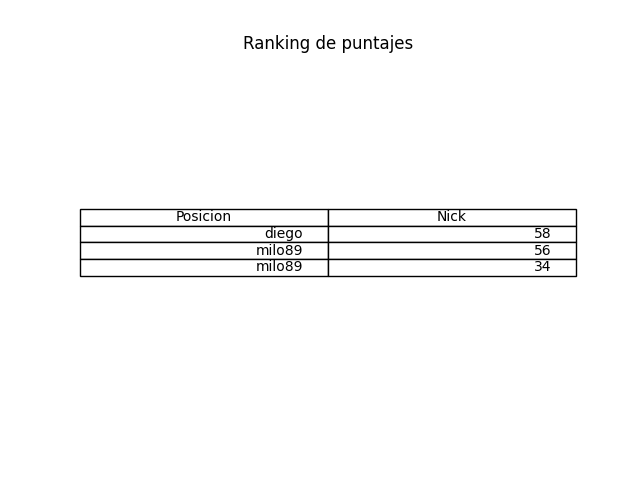
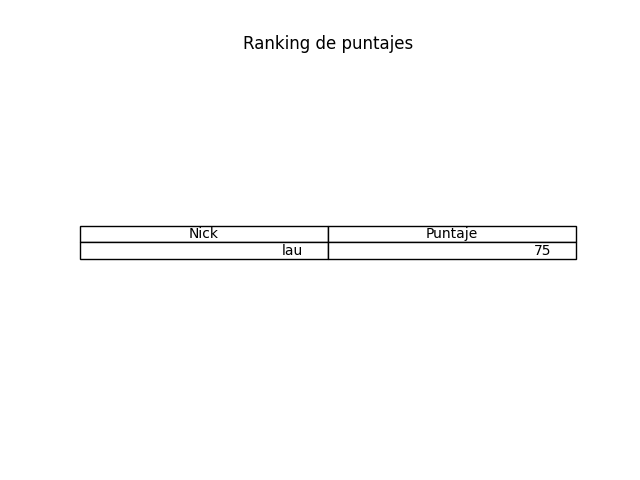
Arreglo de ranking

Changed region(s): [[0.125, 0.4688, 0.9062, 0.5938], [0.125, 0.4062, 0.9062, 0.5]]

diff --git a/trabajo/src/handlers/ranking_f.py b/trabajo/src/handlers/ranking_f.py
@@ -1,0 +1,56 @@
+import PySimpleGUI as sg
+import pandas as pd
+import matplotlib.pyplot as plt
+from src.handlers import sonido
+
+
+def obtener_datos():
+    datos_puntos= pd.read_csv('datos_de_puntos.csv')
+    facil= datos_puntos[datos_puntos['nivel']=='Facil']
+    filtro = facil[['nick', 'puntos']]
+    filtro = filtro.groupby('nick')[['nick', 'puntos']].sum()
+    ranking_f = filtro.sort_values(by='puntos', ascending=False).reset_index()[:5]
+    return ranking_f.values
+
+
+
+def start():
+    """ Lanza la ejecución de la ventana del tablero """
+    window = loop()
+    window.close()
+
+
+def build():
+    """ Crea la ventana para registrar el usuario"""
+    size = (15, 2)
+
+    layout = [
+        [sg.Image(filename="src/recursos/graficos/ranking.png")],
+        [sg.Button("Salir", size=size, key="-SALIR-")]
+    ]
+
+    ranking = sg.Window("Grafico", layout=layout, element_justification='c', resizable=False, modal=True)
+
+    return ranking
+
+
+def loop():
+    """Loop de la ventana del tablero que capta sus eventos"""
+    window = build()
+
+    fig, ax = plt.subplots(1, 1)
+    data = obtener_datos()
+    column_labels = ['Nick', 'Puntaje']
+    ax.axis('tight')
+    ax.axis('off')
+    ax.table(cellText=data, colLabels=column_labels, loc="center")
+    plt.title("Ranking de puntajes")
+    plt.savefig("src/recursos/graficos/ranking.png")
+
+    while True:
+        event, values = window.read()
+        if event in (sg.WINDOW_CLOSED, "-SALIR-"):
+            sonido.reproducir_sonido(1)
+            break
+
+    return window

diff --git a/trabajo/src/handlers/ranking_m.py b/trabajo/src/handlers/ranking_m.py
@@ -1,0 +1,53 @@
+import PySimpleGUI as sg
+import pandas as pd
+import matplotlib.pyplot as plt
+from src.handlers import sonido
+
+def obtener_datos():
+    datos_puntos= pd.read_csv('datos_de_puntos.csv')
+    medio= datos_puntos[datos_puntos['nivel']=='Medio']
+    filtro = medio[['nick', 'puntos']]
+    filtro = filtro.groupby('nick')[['nick', 'puntos']].sum()
+    ranking_m = filtro.sort_values(by='puntos', ascending=False).reset_index()[:5]
+    return ranking_m.values
+
+def start():
+    """ Lanza la ejecución de la ventana del tablero """
+    window = loop()
+    window.close()
+
+
+def build():
+    """ Crea la ventana para registrar el usuario"""
+    size = (15, 2)
+
+    layout = [
+        [sg.Image(filename="src/recursos/graficos/ranking.png")],
+        [sg.Button("Salir", size=size, key="-SALIR-")]
+    ]
+
+    ranking = sg.Window("Grafico", layout=layout, element_justification='c', resizable=False, modal=True)
+
+    return ranking
+
+
+def loop():
+    """Loop de la ventana del tablero que capta sus eventos"""
+    window = build()
+
+    fig, ax = plt.subplots(1, 1)
+    data = obtener_datos()
+    column_labels = ['Nick', 'Puntaje']
+    ax.axis('tight')
+    ax.axis('off')
+    ax.table(cellText=data, colLabels=column_labels, loc="center")
+    plt.title("Ranking de puntajes")
+    plt.savefig("src/recursos/graficos/ranking.png")
+
+    while True:
+        event, values = window.read()
+        if event in (sg.WINDOW_CLOSED, "-SALIR-"):
+            sonido.reproducir_sonido(1)
+            break
+
+    return window

diff --git a/trabajo/src/handlers/intento.py b/trabajo/src/handlers/intento.py
@@ -1,3 +1,4 @@
+from os import X_OK
 import PySimpleGUI as sg
 import pandas as pd
 import matplotlib.pyplot as plt
@@ -8,17 +9,28 @@ def iterar(data):
     """
     lista_de_listas = []
     for x in range(len(data)):
-        lista_de_listas = [[data[x]]]
+        lista_de_listas += [[data[x]]]
     return lista_de_listas
 
-datos_juego= pd.read_csv('datos_de_partidas.csv')
-    
 
-partidas_timeout= datos_juego[datos_juego["estado"]=='timeout']['nro_de_partida']
-partidas_timeout= list(partidas_timeout)
+datos_puntos= pd.read_csv('datos_de_puntos.csv')
 
 
-for i in len(partidas_timeout):
-        palabras= datos_juego[datos_juego["nro_de_partida"]==int(iterar(partidas_timeout))]['palabra'].dropna()
+facil= datos_puntos[datos_puntos['nivel']=='Facil']
+filtro = facil[['nick', 'puntos']]
+filtro = filtro.groupby('nick')[['nick', 'puntos']].sum()
+ranking = filtro.sort_values(by='puntos', ascending=False).reset_index()[:3]
+#ranking = filtro_f.sort_values(by='puntos', ascending=False)[:5]
 
-print(palabras)
+medio= datos_puntos[datos_puntos['nivel']=='Medio']
+filtro = medio[['nick', 'puntos']]
+filtro = filtro.groupby('nick')[['nick', 'puntos']].sum()
+ranking_m = filtro.sort_values(by='puntos', ascending=False).reset_index()[:3]
+
+dif= datos_puntos[datos_puntos['nivel']=='Dificil']
+filtro = dif[['nick', 'puntos']]
+filtro = filtro.groupby('nick')[['nick', 'puntos']].sum()
+ranking_d = filtro.sort_values(by='puntos', ascending=False).reset_index()[:3]
+
+print(ranking_d)
+

diff --git a/trabajo/src/handlers/ranking_d.py b/trabajo/src/handlers/ranking_d.py
@@ -3,14 +3,13 @@ import pandas as pd
 import matplotlib.pyplot as plt
 from src.handlers import sonido
 
-
 def obtener_datos():
-    datos_puntos = pd.read_csv("datos_de_puntos.csv")
-    filtro = datos_puntos[['nick', 'puntos']]
+    datos_puntos= pd.read_csv('datos_de_puntos.csv')
+    dif= datos_puntos[datos_puntos['nivel']=='Dificil']
+    filtro = dif[['nick', 'puntos']]
     filtro = filtro.groupby('nick')[['nick', 'puntos']].sum()
-    ranking = filtro.sort_values(by='puntos', ascending=False).reset_index()[:3]
-    return ranking.values
-
+    ranking_d = filtro.sort_values(by='puntos', ascending=False).reset_index()[:5]
+    return ranking_d.values
 
 def start():
     """ Lanza la ejecución de la ventana del tablero """
@@ -50,4 +49,5 @@ def loop():
         if event in (sg.WINDOW_CLOSED, "-SALIR-"):
             sonido.reproducir_sonido(1)
             break
+
     return window

diff --git a/trabajo/src/component/ranking_c.py b/trabajo/src/component/ranking_c.py
@@ -1,6 +1,6 @@
 import PySimpleGUI as sg
 from src.windows import ranking
-from src.handlers import sonido, ranking_h
+from src.handlers import sonido, ranking_f,ranking_m,ranking_d
 
 
 
@@ -20,10 +20,22 @@ def loop():
             sonido.reproducir_sonido(1)
             break
 
-        if event == "-RANKING-":
+        if event == "-RANKING_FACIL-":
             window.hide()
             sonido.reproducir_sonido(1)
-            ranking_h.start()
+            ranking_f.start()
+            window.un_hide()
+
+        if event == "-RANKING_MEDIO-":
+            window.hide()
+            sonido.reproducir_sonido(1)
+            ranking_m.start()
+            window.un_hide()
+        
+        if event == "-RANKING_DIFICIL-":
+            window.hide()
+            sonido.reproducir_sonido(1)
+            ranking_d.start()
             window.un_hide()
 
     return window

diff --git a/trabajo/src/windows/ranking.py b/trabajo/src/windows/ranking.py
@@ -8,7 +8,9 @@ def build():
 
     layout = [
     [sg.Image(filename=("src/recursos/images/ranking.png"),size=(150,150))],   
-    [sg.Button("Ranking de los mejores Jugadores",key=("-RANKING-"),size=(size))],
+    [sg.Button("Ranking : Nivel Facil",key=("-RANKING_FACIL-"),size=(size))],
+    [sg.Button("Ranking : Nivel Medio",key=("-RANKING_MEDIO-"),size=(size))],
+    [sg.Button("Ranking : Nivel Dificil",key=("-RANKING_DIFICIL-"),size=(size))],
     [sg.Button("Salir",key=("-SALIR-"),size=(size))]
     ]
     
